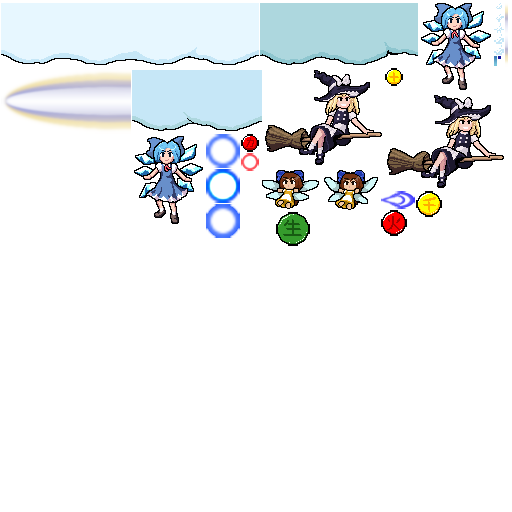
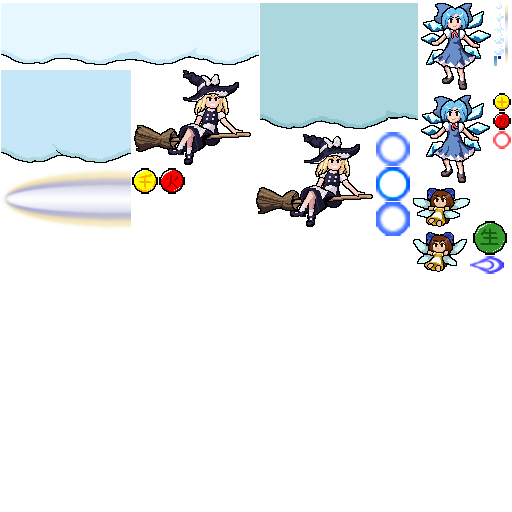
Minor improvements to the clouds

Changed region(s): [[0.0, 0.0938, 1.0, 0.5312]]

diff --git a/src/scenes/game/gameScene.ts b/src/scenes/game/gameScene.ts
@@ -154,7 +154,7 @@ export class GameScene extends Scene {
             .setDepth(-100);
         this.topclouds = this.add.tileSprite(
             -64,
-            -32,
+            -16,
             0,
             0,
             'packed',
@@ -166,26 +166,26 @@ export class GameScene extends Scene {
             .setDepth(2);
         this.darkclouds = this.add.tileSprite(
             -64,
-            -8,
+            -20,
             0,
             0,
             'packed',
             'darkclouds'
         );
         this.darkclouds
-            .setSize(1280 + 128, 64)
+            .setSize(1280 + 128, 96)
             .setOrigin(0, 0)
             .setDepth(-1);
         this.darkdarkclouds = this.add.tileSprite(
             -64,
-            16,
+            -32,
             0,
             0,
             'packed',
             'darkdarkclouds'
         );
         this.darkdarkclouds
-            .setSize(1280 + 128, 64)
+            .setSize(1280 + 128, 128)
             .setOrigin(0, 0)
             .setDepth(-2);
 
